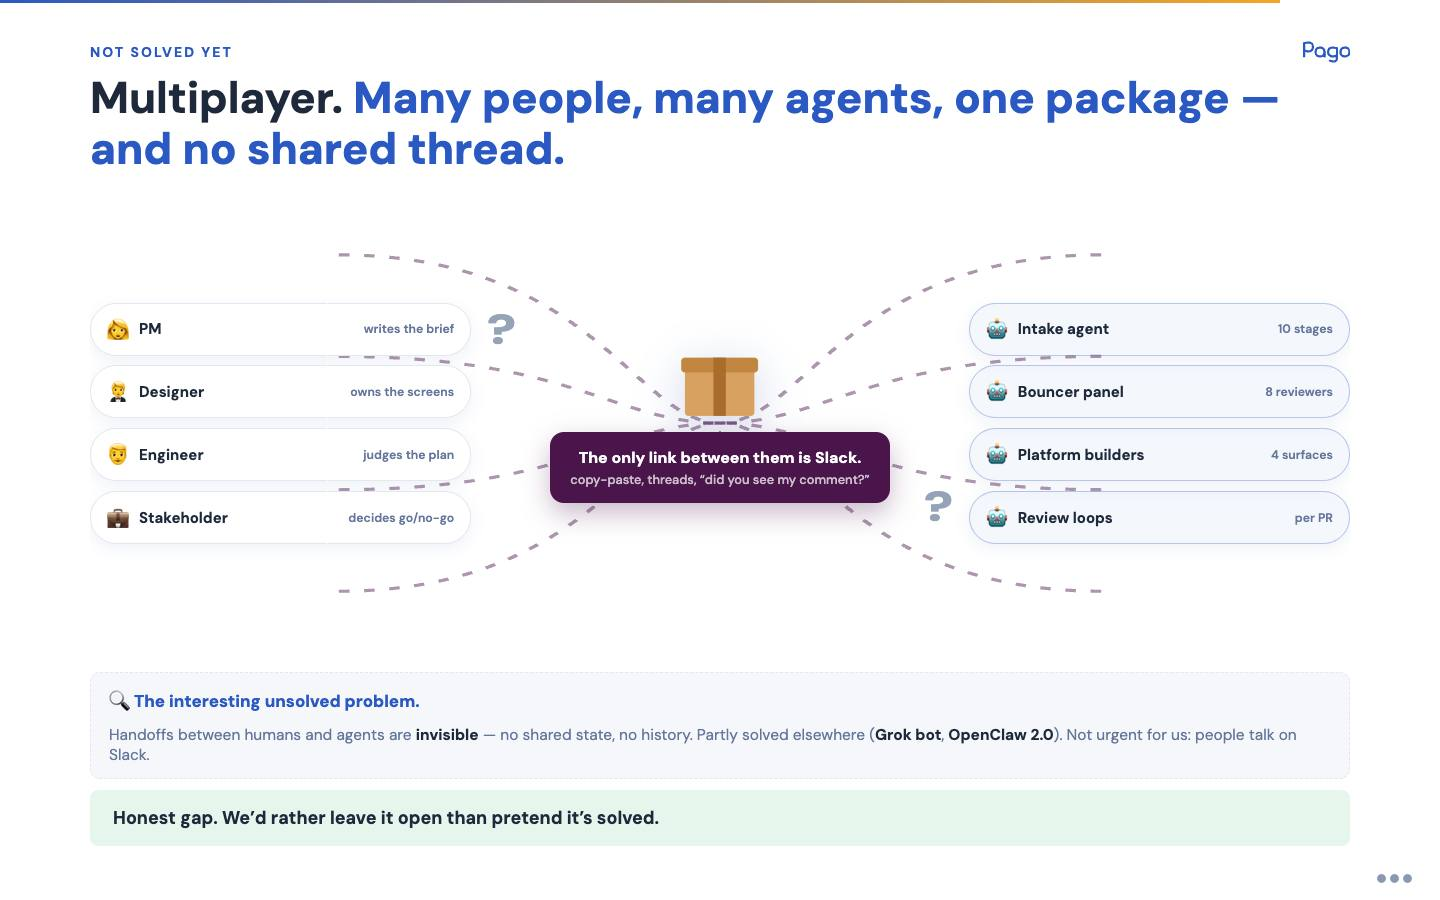
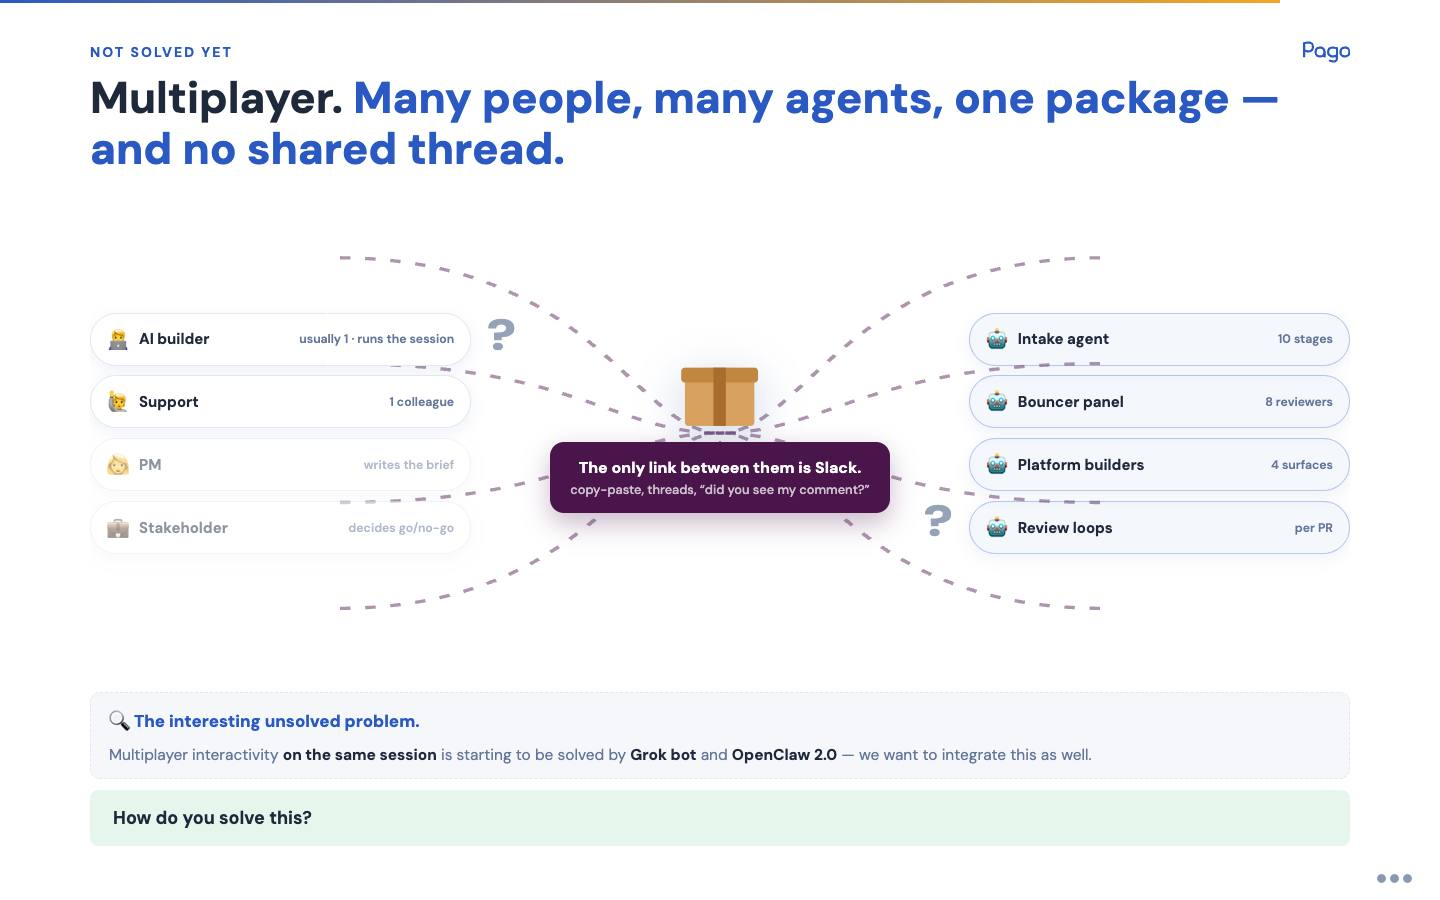
cto-craft v3: factory floor ends in PRs + human polishing, fold-04 strip becomes 'the workflow handholds the user', demo line trimmed, two more real Bouncer verdicts, fold-08 notes on debugging time / post-mortems / pre-mortems / simulated tests, multiplayer fold shows the 1+1 human side and asks th

diff --git a/cto-craft/index.html b/cto-craft/index.html
@@ -378,7 +378,8 @@
 .defect .dh svg { width: clamp(19px,2.1vw,29px); height: auto; flex: none; }
 .defect q { display: block; quotes: none; font-family: 'Inter', ui-monospace, monospace;
   font-size: clamp(13px,1.45vw,21px); line-height: 1.45; color: var(--text);
-  border-left: 4px solid #D6455B; padding: clamp(13px,1.7vw,22px) clamp(13px,1.6vw,22px); }
+  border-left: 4px solid #D6455B; padding: clamp(8px,1vw,13px) clamp(13px,1.6vw,22px); }
+.defect q + q { border-top: 1px solid var(--border); }
 .defect q b { color: #D6455B; font-weight: 800; }
 .stamps { display: grid; grid-template-columns: repeat(4, 1fr); gap: clamp(6px,0.9vw,11px); }
 .stamps .st { display: flex; align-items: center; justify-content: center; border-radius: 8px;
@@ -760,9 +761,9 @@
       <div class="post post--floor" data-stage="3">
         <div class="p-n">POST 03</div>
         <div class="p-t">The Factory floor</div>
-        <div class="p-d">Planner &rarr; one builder per platform &rarr; review loops &rarr; PR.</div>
+        <div class="p-d">Planner &rarr; one builder per platform &rarr; review loops &rarr; PRs &rarr; human polishing.</div>
         <div class="p-art">
-          <svg viewBox="0 0 440 300">
+          <svg viewBox="0 0 560 300">
             <g class="floor-flow" stroke-width="2.2">
               <path d="M88 154 H124"/>
               <path d="M124 40 V262"/>
@@ -781,9 +782,15 @@
               <rect class="floor-box" x="158" y="186" width="124" height="44" rx="10"/><text class="floor-lbl" x="220" y="214" text-anchor="middle">Web</text>
               <rect class="floor-box" x="158" y="240" width="124" height="44" rx="10"/><text class="floor-lbl" x="220" y="268" text-anchor="middle">Tests</text>
             </g>
-            <text class="floor-lbl sm" x="369" y="104" text-anchor="middle">review loop</text>
+            <text class="floor-lbl sm" x="369" y="104" text-anchor="middle">review loops</text>
+            <rect x="372" y="118" width="72" height="52" rx="11" fill="#2B59C3" opacity="0.35"/>
+            <rect x="368" y="123" width="72" height="52" rx="11" fill="#2B59C3" opacity="0.6"/>
             <rect x="364" y="128" width="72" height="52" rx="11" fill="#2B59C3"/>
-            <text class="floor-lbl" x="400" y="160" text-anchor="middle" style="fill:#fff">PR</text>
+            <text class="floor-lbl" x="400" y="160" text-anchor="middle" style="fill:#fff">PRs</text>
+            <g class="floor-flow" stroke-width="2.2"><path d="M436 154 H466"/></g>
+            <rect class="floor-box" x="466" y="128" width="84" height="52" rx="11" style="stroke:var(--pago-gold)"/>
+            <text class="floor-lbl" x="508" y="150" text-anchor="middle" style="font-size:12px">&#129489; human</text>
+            <text class="floor-lbl" x="508" y="168" text-anchor="middle" style="font-size:12px">polishing</text>
           </svg>
         </div>
       </div>
@@ -832,8 +839,8 @@
         <span class="mi">what the user is already trying to improve</span>
       </div>
       <div class="acct" data-stage="4">
-        <span class="al">&#129309; The human is accountable throughout</span>
-        <span class="ac">interrupt</span><span class="ac">reset session</span><span class="ac">reset limits</span>
+        <span class="al">&#129309; The workflow handholds the user</span>
+        <span class="ac">the next step is always obvious</span>
       </div>
     </div>
     <div class="bottom-line reveal reveal-d2">You always know where you are in control &mdash; and where you are not.</div>
@@ -846,7 +853,7 @@
   <div class="pattern-dots"></div>
   <div class="fold-inner">
     <h2 class="cover-title reveal">Let me show you.</h2>
-    <p class="cover-subtitle reveal reveal-d1" style="margin:0;">A live intake run &middot; the Bouncer&rsquo;s verdict &middot; where humans checked in.</p>
+    <p class="cover-subtitle reveal reveal-d1" style="margin:0;">A live intake run &middot; where humans checked in.</p>
     <div class="keycaps" data-stage="1">
       <div class="keycap">&#8997;</div>
       <div class="keyplus">+</div>
@@ -930,6 +937,8 @@
         <div class="defect" data-stage="2">
           <div class="dh"><svg viewBox="0 0 64 64"><use href="#bouncer"/></svg>What the Bouncer caught</div>
           <q>POST /accept uses an action verb in the URL <b>([HARD] rule 3)</b></q>
+          <q>Rollup <b>79</b> vs bar <b>80</b> &mdash; ESCALATE, do not merge</q>
+          <q>HALT short-circuits the judges &mdash; <b>no reviewer spend</b></q>
         </div>
         <div class="stamps" data-stage="3">
           <div class="st" style="--s:0;--r:-4deg">NO-GO</div>
@@ -984,9 +993,9 @@
         </div>
       </div>
     </div>
-    <div class="wheel-note" data-stage="2">&#128161; <span>You <b>can</b> invest in the factory on its own.</span>
+    <div class="wheel-note" data-stage="2">&#128295; <span>Factory time needs <b>debugging</b> and <b>allocated resources</b>.</span>
       <span class="stat-chip" hidden id="statF08">&mdash;</span></div>
-    <div class="wheel-note" data-stage="3" style="color:var(--text);font-weight:800;">&#11088; <span>The biggest wins come from here.</span></div>
+    <div class="wheel-note" data-stage="3">&#129514; <span>Invest in <b>auto post-mortems</b>, <b>pre-mortems</b> before runs, and <b>simulated tests</b> you can run across model versions.</span></div>
     <div class="bottom-line reveal reveal-d2">Build the factory out of what people already reach for.</div>
   </div>
 </section>
@@ -1013,10 +1022,10 @@
         <text class="q" x="404" y="212" text-anchor="middle">?</text>
       </svg>
       <div class="mp-side" data-stage="1">
-        <div class="who"><span>&#128105;</span>PM<em>writes the brief</em></div>
-        <div class="who"><span>&#129333;</span>Designer<em>owns the screens</em></div>
-        <div class="who"><span>&#128104;</span>Engineer<em>judges the plan</em></div>
-        <div class="who"><span>&#128188;</span>Stakeholder<em>decides go/no-go</em></div>
+        <div class="who"><span>&#129489;&#8205;&#128187;</span>AI builder<em>usually 1 &middot; runs the session</em></div>
+        <div class="who"><span>&#128587;</span>Support<em>1 colleague</em></div>
+        <div class="who" style="opacity:0.5"><span>&#128105;</span>PM<em>writes the brief</em></div>
+        <div class="who" style="opacity:0.5"><span>&#128188;</span>Stakeholder<em>decides go/no-go</em></div>
       </div>
       <div class="mp-core">
         <svg class="pkg" viewBox="0 0 72 64" data-stage="1"><use href="#pkg"/></svg>
@@ -1031,9 +1040,9 @@
     </div>
     <div class="mp-note" data-stage="3">
       <span class="flag">&#128269; The interesting unsolved problem.</span>
-      <span>Handoffs between humans and agents are <b>invisible</b> &mdash; no shared state, no history. Partly solved elsewhere (<b>Grok bot</b>, <b>OpenClaw 2.0</b>). Not urgent for us: people talk on Slack.</span>
+      <span>Multiplayer interactivity <b>on the same session</b> is starting to be solved by <b>Grok bot</b> and <b>OpenClaw 2.0</b> &mdash; we want to integrate this as well.</span>
     </div>
-    <div class="bottom-line reveal reveal-d2">Honest gap. We&rsquo;d rather leave it open than pretend it&rsquo;s solved.</div>
+    <div class="bottom-line reveal reveal-d2">How do you solve this?</div>
   </div>
 </section>
 
